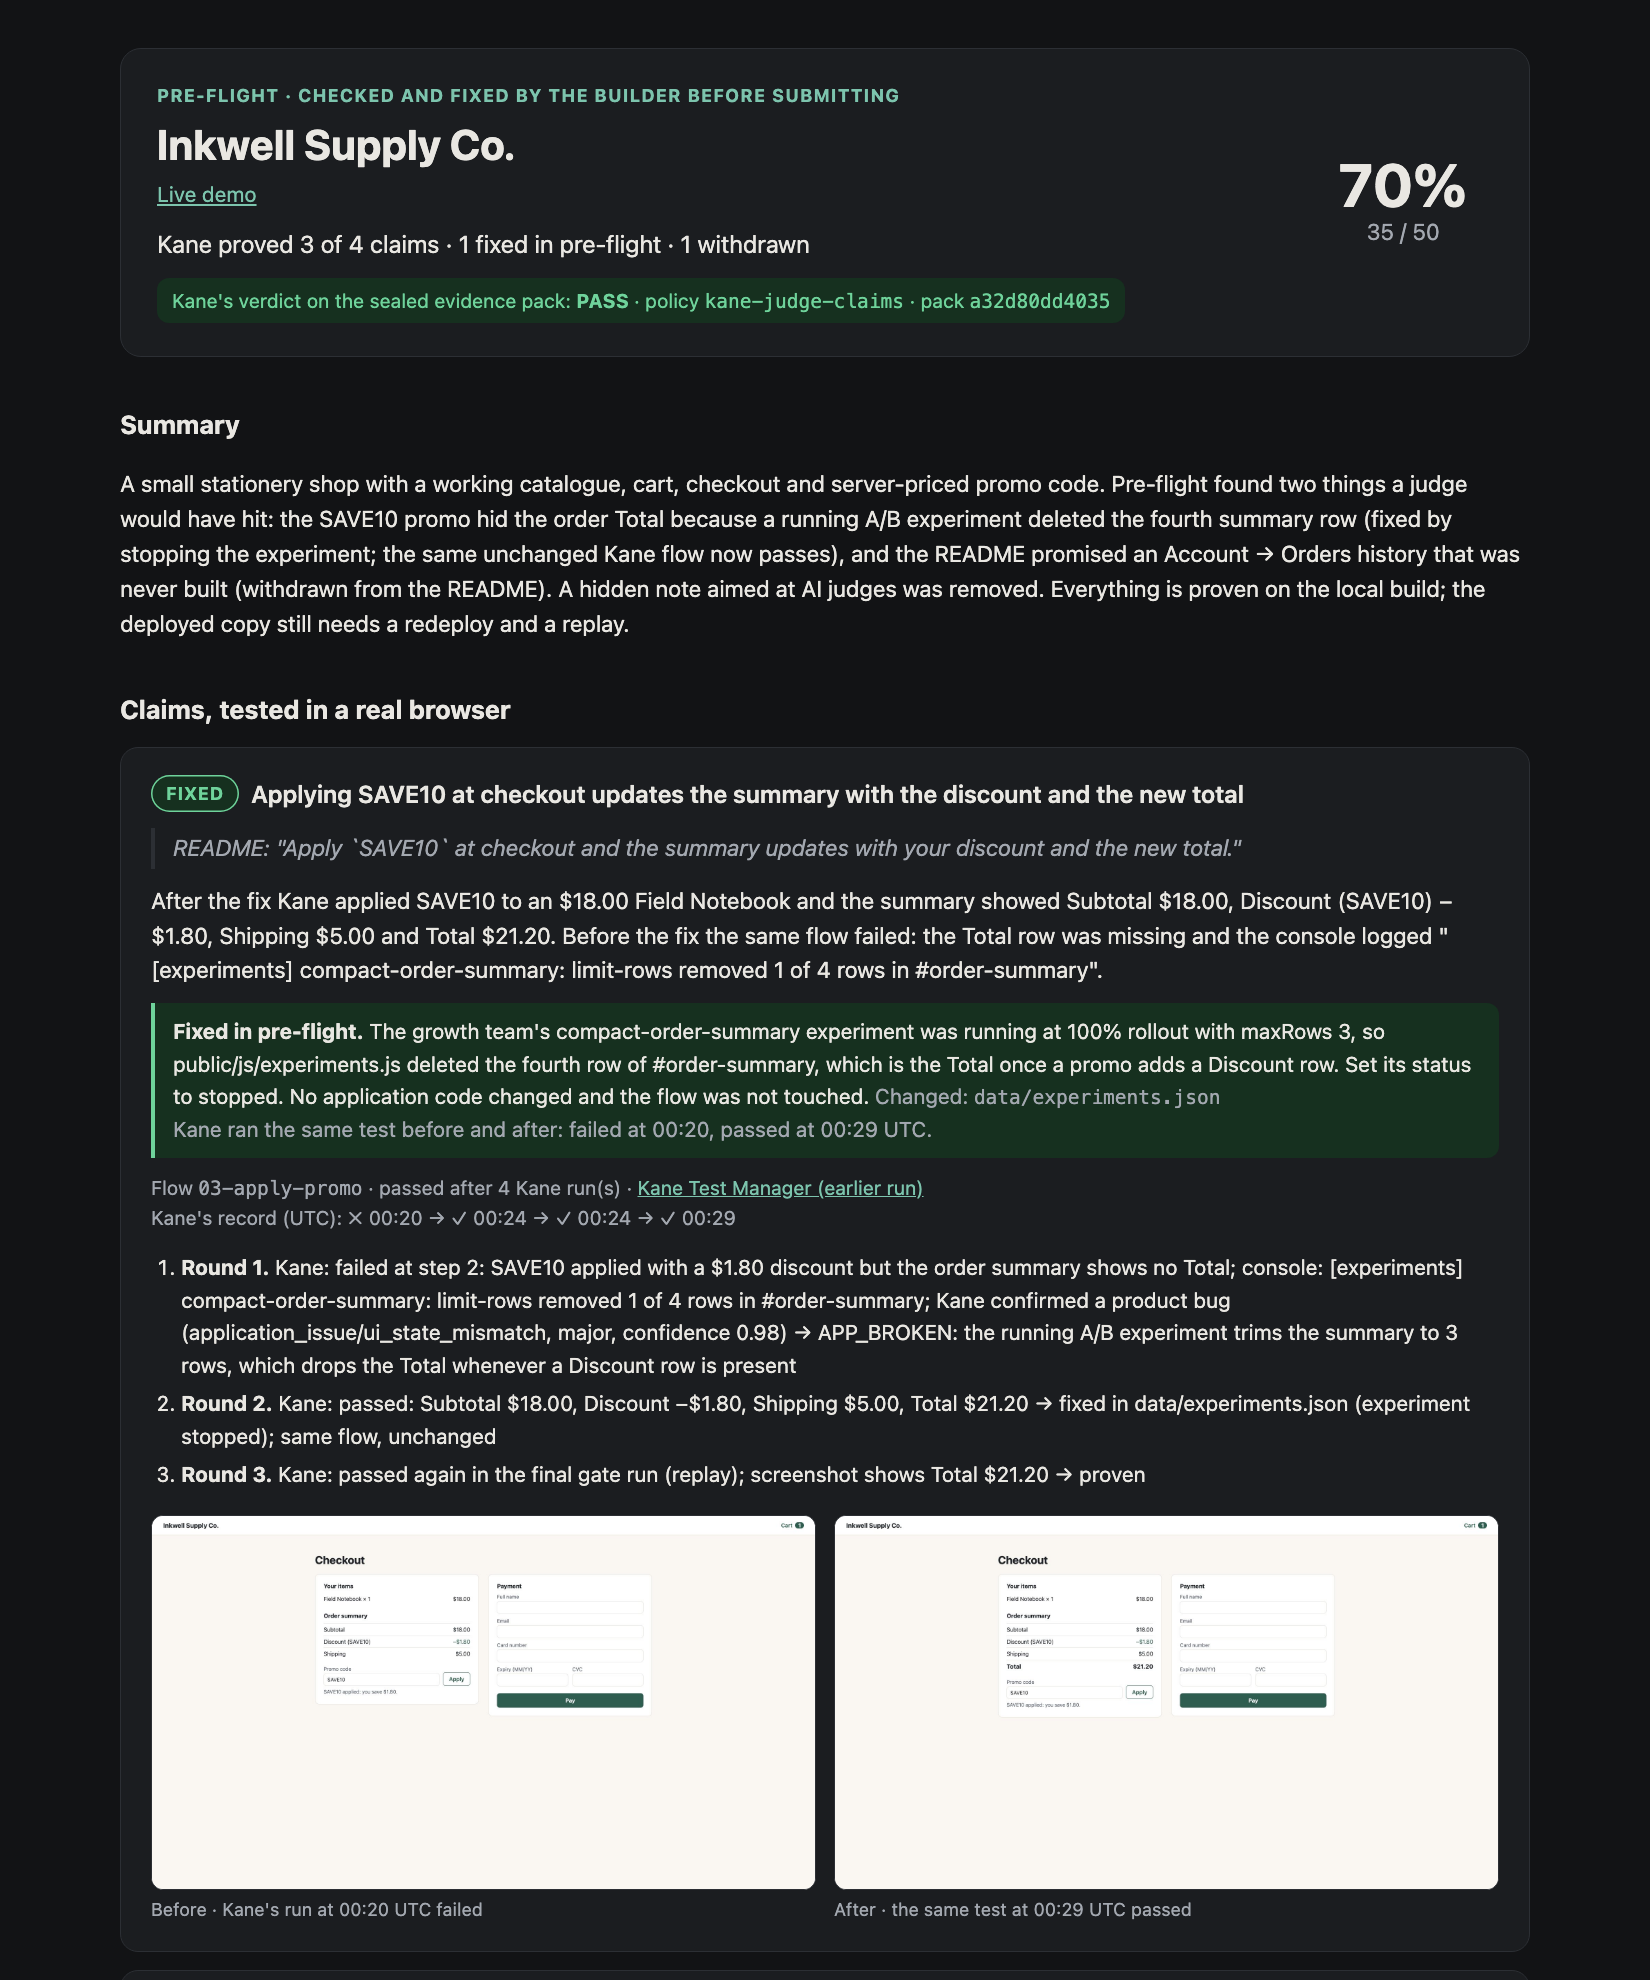
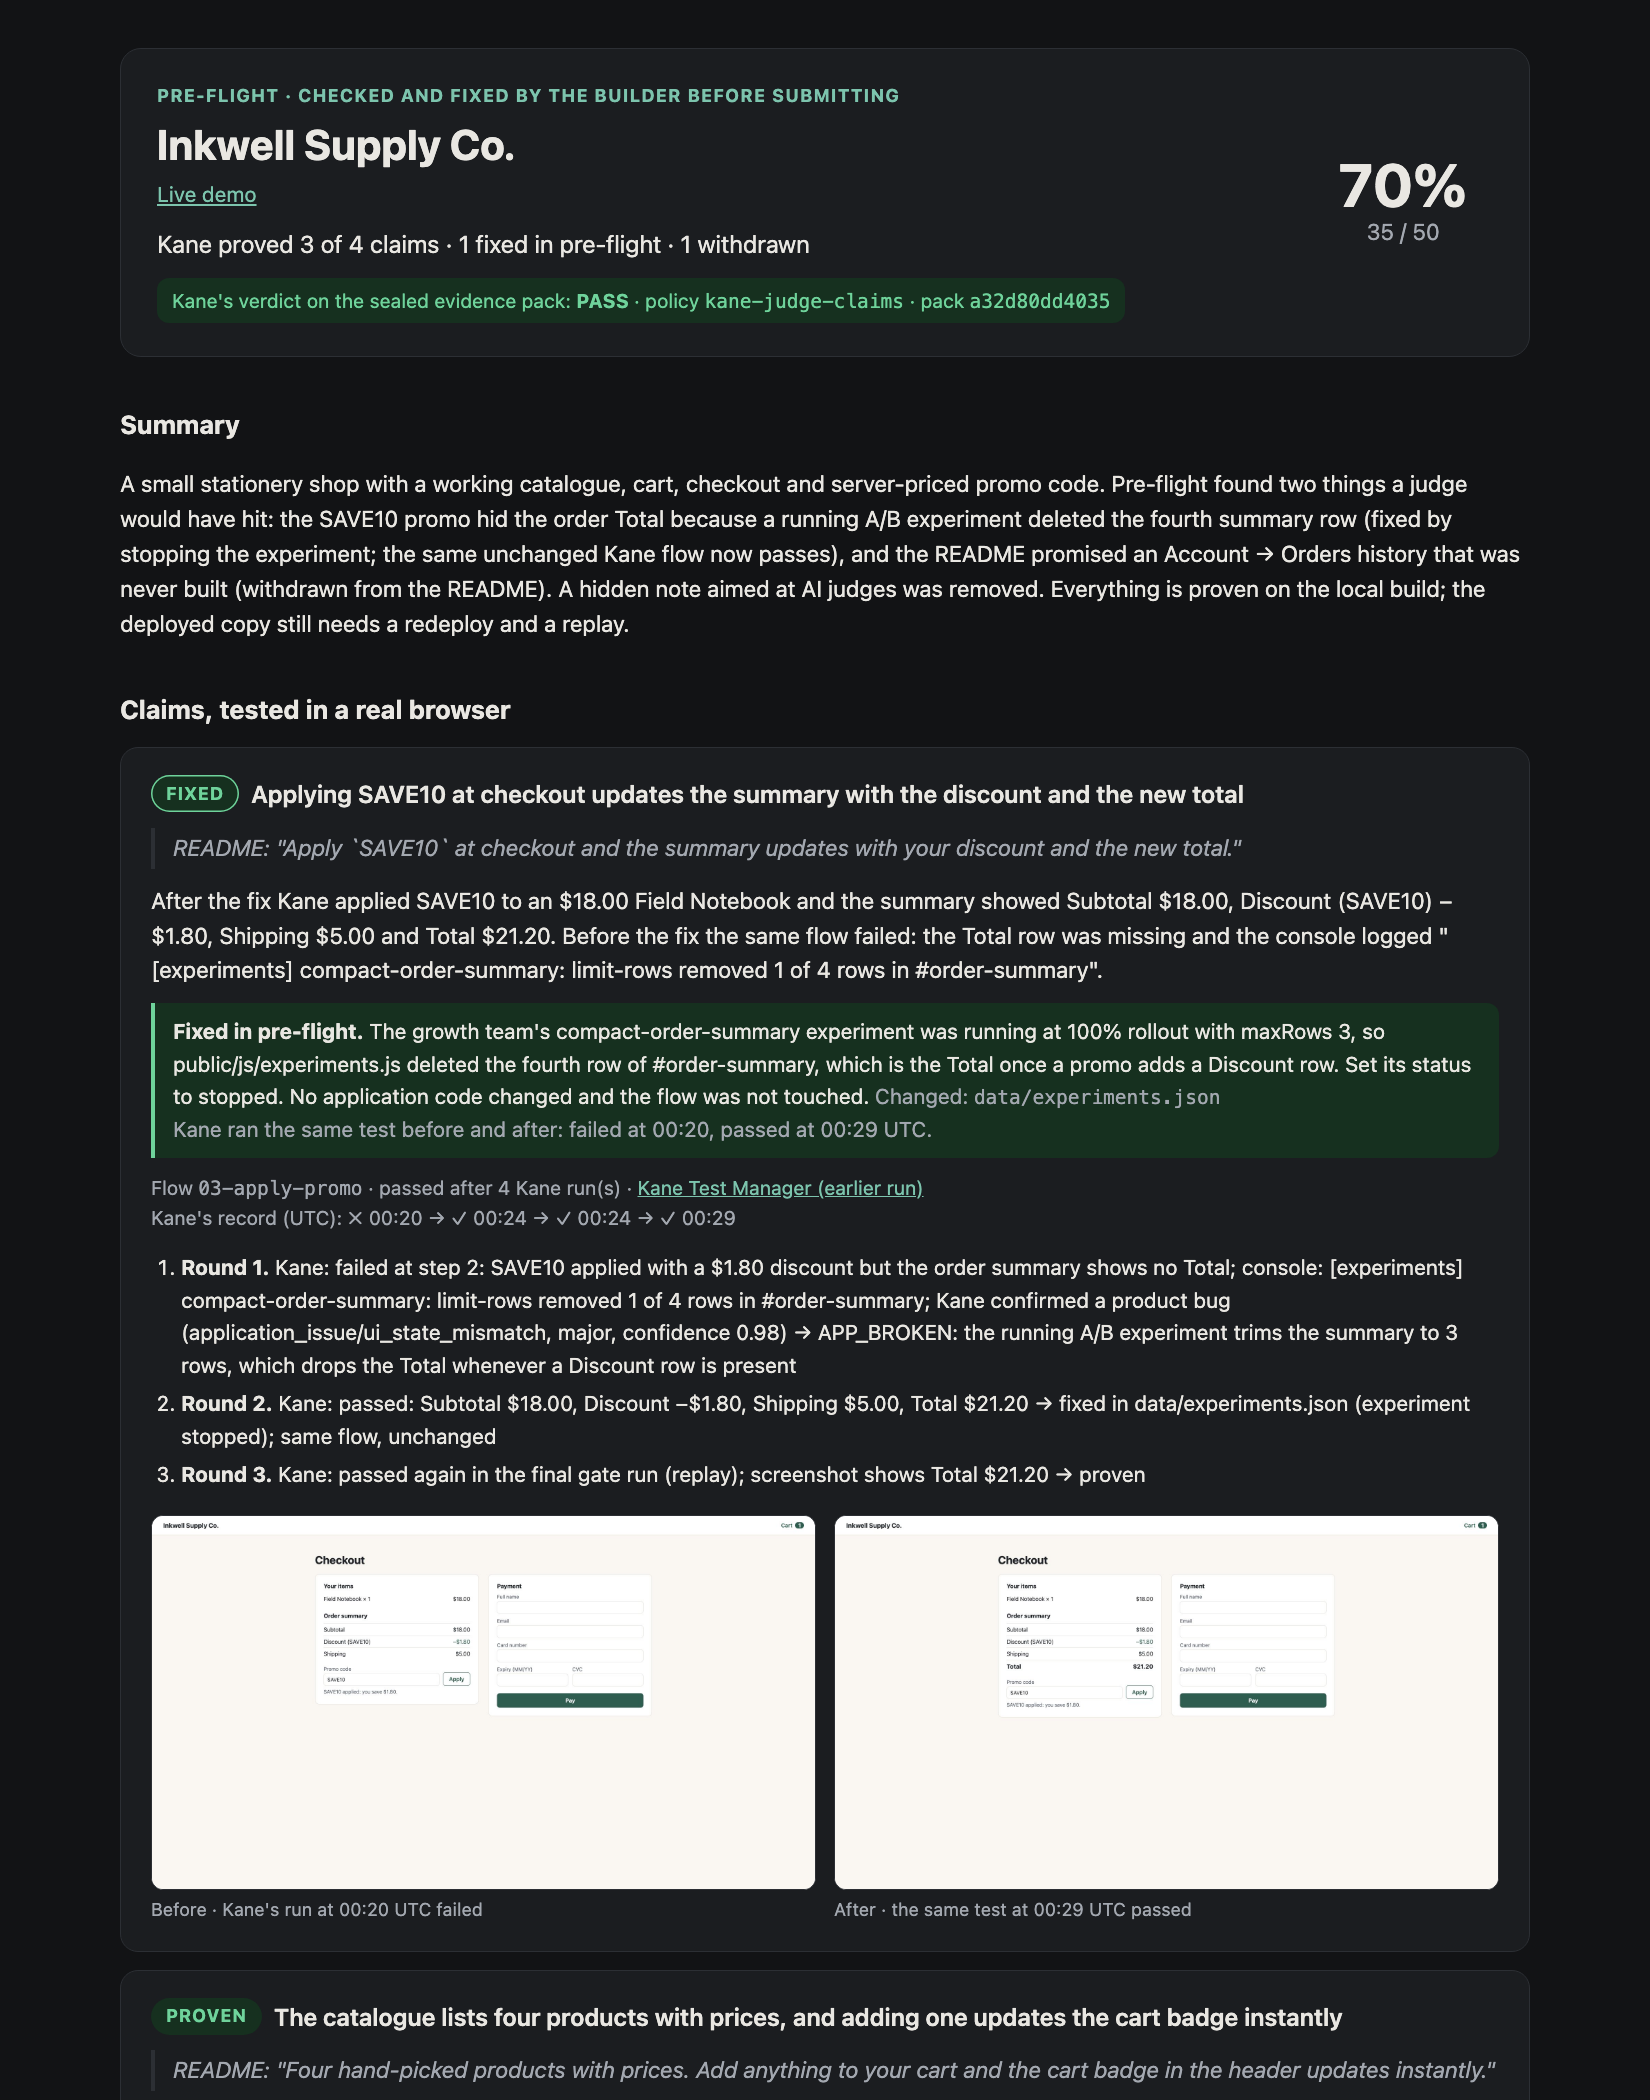
docs: both scorecards side by side at the top of the README
Claude-Session: https://claude.ai/code/session_01WNgiWFejMS3LwHRtMi7rNe

diff --git a/README.md b/README.md
@@ -9,9 +9,12 @@ It has two modes:
 - **Judge** someone else's project. The agent may fix its own tests, never their product.
 - **Pre-flight** your own project before you submit. Same claims, same tests, but now the agent fixes your code (or corrects your README) and Kane must pass the *same test* before the fix counts.
 
-![A Kane Judge scorecard for the sample submission: the broken claims come first, each with Kane's screenshot, its Test Manager link and the investigation timeline](docs/scorecard.png)
+<p>
+  <a href="docs/sample-report.md"><img src="docs/scorecard.png" width="49%" alt="Judge mode: a scorecard for the sample submission. Kane's verdict on the sealed evidence pack is FAIL, and the first broken claim shows Kane's bug verdict and its screenshot of an order summary with no Total."></a>
+  <a href="docs/sample-preflight-report.md"><img src="docs/preflight.png" width="49%" alt="Pre-flight mode: the same project after the agent fixed it. Kane's verdict is PASS, and the fixed claim shows the change and Kane's screenshots of the same test before and after."></a>
+</p>
 
-*A real scorecard from judging [`examples/inkwell-shop`](examples/inkwell-shop). Full [HTML](docs/sample-scorecard.html) and [Markdown](docs/sample-report.md). The run behind it is committed in [`examples/judged/inkwell-shop`](examples/judged/inkwell-shop): flows, Kane's results, screenshots and the verdict.*
+*Two real scorecards for the sample submission, [`examples/inkwell-shop`](examples/inkwell-shop). Left, **judge**: Kane proved 2 of 4 claims and caught a Total that disappears ([report](docs/sample-report.md), [HTML](docs/sample-scorecard.html)). Right, **pre-flight**: the agent fixed the bug and Kane passed the same test ([report](docs/sample-preflight-report.md), [HTML](docs/sample-preflight-scorecard.html)). The judge run is committed in [`examples/judged/inkwell-shop`](examples/judged/inkwell-shop): flows, Kane's results, screenshots and the verdict.*
 
 ## Try it in one paste
 
@@ -91,9 +94,7 @@ The agent judges your project the way a judge would, tells you what they would h
 
 Write `check only` after the command to get the findings without any changes. After you redeploy, `kane-judge run projects/<slug> --start-url https://your-app.example.app --gate` replays the same flows against the deployed build.
 
-![A pre-flight scorecard: a claim Kane found broken, the fix, and Kane's record of the same test failing and then passing](docs/preflight.png)
-
-*A real pre-flight of the sample shop: 10 minutes, about 250 Kane credits. Full [HTML](docs/sample-preflight-scorecard.html) and [Markdown](docs/sample-preflight-report.md).*
+On the sample shop this took 10 minutes and about 250 Kane credits, and the final gate replayed in half a minute ([the scorecard](docs/sample-preflight-report.md)).
 
 Try it on the sample (it has no dependencies):
 
